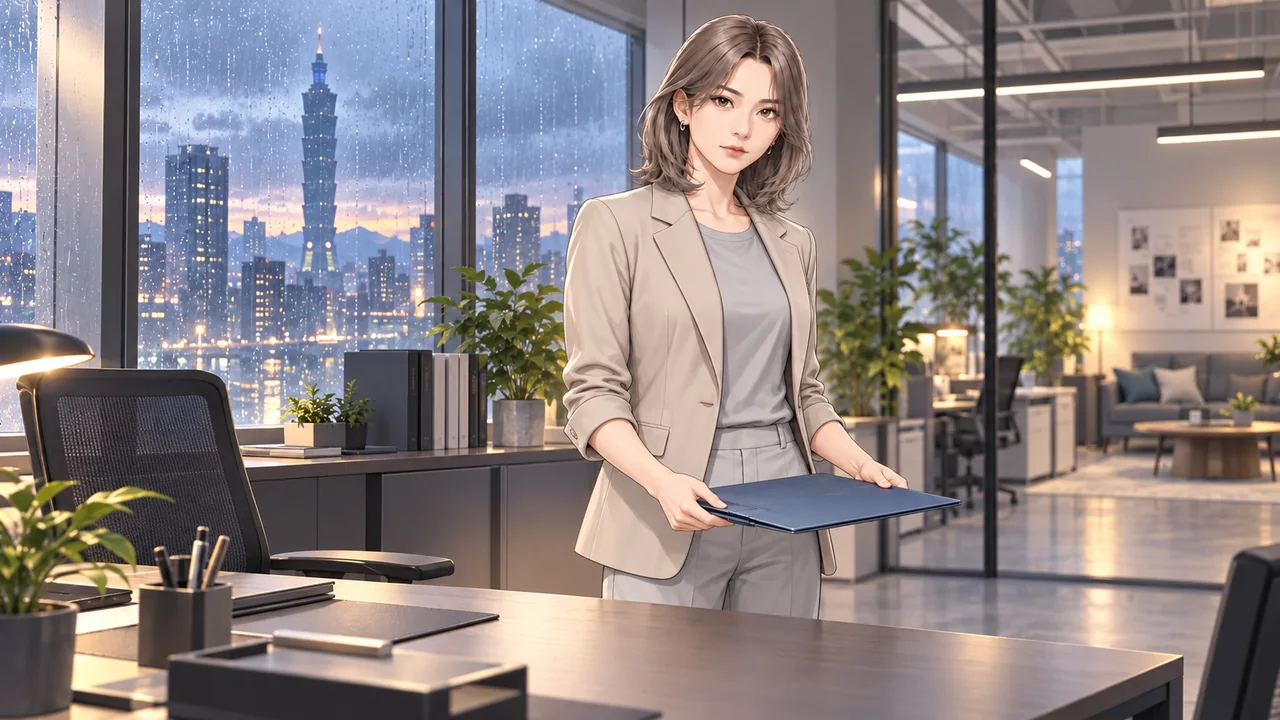
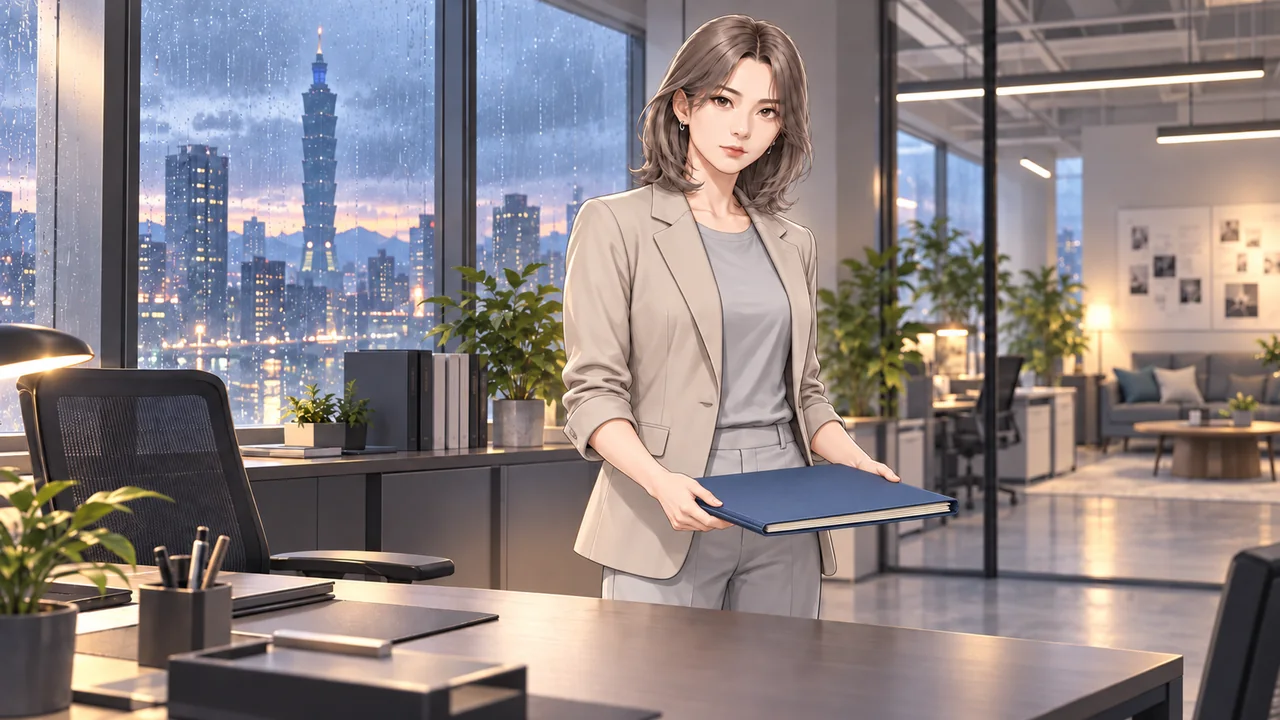
cutscenes: migrate cue wiring to v4 slate (00/04/06 only)
User approved ChatGPT's v4 storyboard review (3 segments / 7 shots /
~18s), which retires 01/02/03/07/08/09 and establishes
public/assets/cutscenes/keyframes/current/ as the single stable
source for keyframes. This does the one-time migration ChatGPT asked
for: cutscene-cues.json now only has final-documents/boundary-question/
ending-true (with v4's revised shot timing), optimize-storyboard.mjs
reads from keyframes/current/ instead of runway-v2+v3, stale delivery
WebPs for retired shots are removed, and tests/cutscenes.test.ts and
README.md are updated to match. Only TRUE END still has a cutscene;
the other three endings no longer have one per the v4 review.

See docs/ai-handoff/CLAUDE.md Claude-20260927-1333 for details.

diff --git a/tests/cutscenes.test.ts b/tests/cutscenes.test.ts
@@ -56,21 +56,23 @@ describe('過場影片的資料契約', () => {
     }
   });
 
-  it('四個結局各自掛一段互斥的影片', () => {
+  it('只有 TRUE END 掛過場（06 三週時間橋），其餘三個結局依 v4 審查定案沒有影片', () => {
     // 影片掛在 s9-doorway 路由後直接落腳的場景，不是每個 `ending: true` 的場景——
     // TRUE END 路由到的仍是 ending-true（微選擇四的起點），真正的 `ending: true`
     // 在感情線微選擇匯流之後的 ending-true-finale，那裡沒有另外掛影片。
     const doorway = content.scenes.get('s9-doorway')!;
     const endingSceneIds = [...new Set((doorway.route ?? []).map((entry) => entry.next))];
     expect(endingSceneIds).toHaveLength(4);
-    const files = endingSceneIds.map((id) => content.cutsceneCues.get(id)?.file);
-    expect(files.every((file) => typeof file === 'string')).toBe(true);
-    expect(new Set(files).size).toBe(4);
+    const withCue = endingSceneIds.filter((id) => content.cutsceneCues.has(id));
+    expect(withCue).toEqual(['ending-true']);
   });
 
   it('走完任一條路，每段影片最多只會遇到一次，且依 anchorType 在正確的時機觸發', () => {
     // 模擬 render.ts 的三種觸發時機：'scene' 在進場景前（原本行為）、'line' 在接到
     // anchorText 那一句之前、'choices' 在這場的選項出現之前——不是「進場景就算看過」。
+    // 這條走的是「每個選擇點都取第一個選項」的固定路徑，不保證走到 TRUE END，
+    // 所以結局過場（v4 唯一保留的 06）最多遇到一次，不強制一定遇到；
+    // 一定會走過的 final-documents（s1，全路徑共通）與 boundary-question（s7 匯流點）才斷言必定觸發。
     const engine = new StoryEngine(content);
     const encountered: string[] = [];
     const trigger = (cue: ReturnType<typeof content.cutsceneCues.get>): void => {
@@ -95,29 +97,59 @@ describe('過場影片的資料契約', () => {
     }
     expect(new Set(encountered).size).toBe(encountered.length);
     expect(encountered).toContain('final-documents');
-    expect(encountered).toContain('layoff-notification');
     expect(encountered).toContain('boundary-question');
-    expect(encountered.filter((id) => id.startsWith('ending-'))).toHaveLength(1);
+    expect(encountered.filter((id) => id.startsWith('ending-'))).toHaveLength(encountered.includes('ending-true') ? 1 : 0);
   });
 
-  it('退役的 01／03 不再有 cue：s2-invite 與 s6-receipt 不掛任何影片', () => {
+  it('依 TRUE END 標準路徑，final-documents／boundary-question／ending-true 三段依序各觸發一次', () => {
+    const engine = new StoryEngine(content);
+    const majorSequence = ['invite-clear', 'notice-direct', 'answer-admit', 'doc-protect', 'keep-advocate'];
+    let majorIndex = 0;
+    const encountered: string[] = [];
+    const trigger = (cue: ReturnType<typeof content.cutsceneCues.get>): void => {
+      if (!cue || engine.hasWatchedCutscene(cue.id)) return;
+      encountered.push(cue.id);
+      engine.markCutsceneWatched(cue.id);
+    };
+    for (let guard = 0; guard < 2000; guard += 1) {
+      const cue = content.cutsceneCues.get(engine.currentScene.id);
+      if (cue?.anchorType === 'scene') trigger(cue);
+      const choices = engine.availableChoices;
+      if (engine.atLastLine && choices.length > 0) {
+        if (cue?.anchorType === 'choices') trigger(cue);
+        const target = choices.find((choice) => choice.id === majorSequence[majorIndex]);
+        if (target) majorIndex += 1;
+        engine.choose((target ?? choices[0]!).id);
+        continue;
+      }
+      if (cue?.anchorType === 'line') {
+        const nextLine = engine.visibleLines[engine.currentLineIndex + 1];
+        if (nextLine?.text === cue.anchorText) trigger(cue);
+      }
+      if (!engine.advance()) break;
+    }
+    expect(majorIndex).toBe(majorSequence.length);
+    expect(engine.currentScene.id).toBe('ending-true-finale');
+    expect(encountered).toEqual(['final-documents', 'boundary-question', 'ending-true']);
+  });
+
+  it('退役的 01／02／03／07／08／09 不再有 cue：這些場景不掛任何影片', () => {
     expect(content.cutsceneCues.get('s2-invite')).toBeUndefined();
+    expect(content.cutsceneCues.get('s3-meeting')).toBeUndefined();
     expect(content.cutsceneCues.get('s6-receipt')).toBeUndefined();
+    expect(content.cutsceneCues.get('ending-decent')).toBeUndefined();
+    expect(content.cutsceneCues.get('ending-soft-knife')).toBeUndefined();
+    expect(content.cutsceneCues.get('ending-over-line')).toBeUndefined();
   });
 
-  it('v3 的場景中段／結局 cue 對齊 property/cutscene-storyboard-v3.md 的精確掛點', () => {
+  it('v4 審查定案的 3 段 cue 對齊 property/cutscene-storyboard-v4-review.md 的精確掛點', () => {
     const byId = new Map(cues.map((c) => [c.id, c]));
+    expect(cues.map((c) => c.id)).toEqual(['final-documents', 'boundary-question', 'ending-true']);
     expect(byId.get('final-documents')).toMatchObject({ scene: 's1-final-cut', anchorType: 'scene' });
-    expect(byId.get('layoff-notification')).toMatchObject({
-      scene: 's3-meeting', anchorType: 'line', anchorText: '17:00，月球會議室。關上門，外面的談話聲就聽不見了。',
-    });
     expect(byId.get('boundary-question')).toMatchObject({ scene: 's7-recommend-converge', anchorType: 'choices' });
     expect(byId.get('ending-true')).toMatchObject({
       scene: 'ending-true', anchorType: 'line', anchorText: '三週後的晚上，我在家收到雨澄的訊息。',
     });
-    expect(byId.get('ending-dignified')).toMatchObject({ scene: 'ending-decent', anchorType: 'line', anchorText: 'END 02：體面的句點' });
-    expect(byId.get('ending-soft-knife')).toMatchObject({ scene: 'ending-soft-knife', anchorType: 'line', anchorText: 'END 03：柔軟的刀' });
-    expect(byId.get('ending-boundary-crossed')).toMatchObject({ scene: 'ending-over-line', anchorType: 'line', anchorText: 'END 04：越線' });
   });
 });
 
@@ -186,24 +218,24 @@ describe('parseCutsceneSettings', () => {
 describe('已看過的過場影片', () => {
   it('會進存檔快照，讀檔後不重播，重新開始則清空', () => {
     const engine = new StoryEngine(loadContent());
-    engine.markCutsceneWatched('layoff-notification');
-    expect(engine.hasWatchedCutscene('layoff-notification')).toBe(true);
+    engine.markCutsceneWatched('final-documents');
+    expect(engine.hasWatchedCutscene('final-documents')).toBe(true);
 
     const snapshot = engine.snapshot;
-    expect(snapshot.watchedCutscenes).toContain('layoff-notification');
+    expect(snapshot.watchedCutscenes).toContain('final-documents');
 
     const restored = new StoryEngine(loadContent());
     restored.restore(snapshot);
-    expect(restored.hasWatchedCutscene('layoff-notification')).toBe(true);
+    expect(restored.hasWatchedCutscene('final-documents')).toBe(true);
 
     restored.restart();
-    expect(restored.hasWatchedCutscene('layoff-notification')).toBe(false);
+    expect(restored.hasWatchedCutscene('final-documents')).toBe(false);
   });
 
   it('舊存檔沒有這個欄位時，視為全都沒看過', () => {
     const engine = new StoryEngine(loadContent());
     engine.restore({ sceneId: 's4-notice', state: {} });
-    expect(engine.hasWatchedCutscene('layoff-notification')).toBe(false);
+    expect(engine.hasWatchedCutscene('final-documents')).toBe(false);
   });
 });
 
@@ -230,11 +262,8 @@ describe('分鏡 placeholder', () => {
   const content = loadContent();
   const storyboards = [...content.cutsceneCues.values()].filter((cue) => cue.storyboard);
 
-  it('v3 正式製作清單（7 段）全部先用分鏡頂替缺檔的正式影片（0／7 已生成，見 property/cutscene-storyboard-v3.md）', () => {
-    expect(storyboards.map((cue) => cue.id)).toEqual([
-      'final-documents', 'layoff-notification', 'boundary-question',
-      'ending-true', 'ending-dignified', 'ending-soft-knife', 'ending-boundary-crossed',
-    ]);
+  it('v4 正式製作清單（3 段）全部先用分鏡頂替缺檔的正式影片（0／3 已生成，見 property/cutscene-storyboard-v4-review.md）', () => {
+    expect(storyboards.map((cue) => cue.id)).toEqual(['final-documents', 'boundary-question', 'ending-true']);
   });
 
   it('每一格都指向已產生的交付檔，且鏡號屬於該段（00-A 只能在 00 段）', () => {
@@ -256,8 +285,8 @@ describe('分鏡 placeholder', () => {
     const entries = Object.entries(manifest.files);
     expect(entries.length).toBeGreaterThan(0);
     for (const [output, record] of entries) {
-      // record.source 是 `<runway-v2|runway-v3>/<檔名>`：分鏡影格分兩批交付（見 optimize-storyboard.mjs）。
-      const source = readFileSync(path.join(root, 'public/assets/cutscenes/keyframes', record.source));
+      // record.source 是 keyframes/current/ 下的裸檔名（唯一穩定現役來源，見 optimize-storyboard.mjs）。
+      const source = readFileSync(path.join(root, 'public/assets/cutscenes/keyframes/current', record.source));
       expect(createHash('sha256').update(source).digest('hex'), `${record.source} 換過了，請執行 npm run assets:storyboard`)
         .toBe(record.sourceSha256);
       expect(statSync(path.join(root, 'public/assets/cutscenes/storyboard', output)).size).toBe(record.bytes);

diff --git a/docs/ai-handoff/CLAUDE.md b/docs/ai-handoff/CLAUDE.md
@@ -1111,3 +1111,36 @@
   - Chromium 實機（dev server，全新 `localStorage`）：從標題玩到 s1-final-cut 前，確認 00 cue 以分鏡輪播播出（00-A 與新的 `00-B-v3` 交叉淡化，畫面正確顯示雅琳手托紙本資料夾、非平板），可用右下角「跳過」跳過；選 `invite-clear` 分支進入 s3-meeting，逐句前進到「我看著那句「五點見」，沒有再回。」再點一次，確認 cue 正確攔截並播放 02 的分鏡（`02-A`／`02-C`），播完後接回「17:00，月球會議室……」那一句；讀存檔快照確認 `watchedCutscenes` 已寫入 `final-documents`／`layoff-notification`，`lineIndex` 落在正確位置，「回到上一句」逐句回溯行為與播放前一致。04（choices 型）與四個結局（line 型，含 09 的草稿自動前進交互）由新增的單元測試（`走完任一條路`模擬三種觸發時機、v3 掛點對齊表）覆蓋，未逐一實機重播四個結局；建議下次有真正 MP4 或使用者要求時再實機驗一輪。
   - 建置後 `dist/assets/cutscenes/keyframes` 不存在（`find dist -path '*keyframes*'` 無結果），`dist` 總大小 5.2MB，`dist/assets/cutscenes/storyboard/` 有 25 張交付 WebP，確認 12 張新原始 PNG（23.1MB）未誤入網站成品。
 - 提交後續：本次完成後將依持久記憶要求重建 `cloudflare-pages-upload/last-one-on-one-site.zip`，commit 訊息列出本筆 Entry ID。
+
+## Claude-20260927-1333（v4 分鏡範圍遷移）
+
+- 時間：2026-09-27T13:33:00Z
+- 分支或 PR：`codex/player-copy-sepia-20260920`（本地；依「目前交付方式：僅本地」不推送、不建立 PR）
+- 已讀對方紀錄：`ChatGPT-20260927-2121`（最新，逐項實作其交辦）；一併處理沿續的 `ChatGPT-20260927-2101`／`2108`／`2115`（v4 審查稿定案、關鍵影格 0 張需重畫、`v4-review/active/` 中繼路徑）。使用者已在對話中明確核准 v4 審查稿（00／04／06 共 3 段／7 鏡／約 18 秒）與 `keyframes/current/` 穩定路徑契約，本次據此執行 ChatGPT 交辦的一次性遷移。
+- 本次範圍：把 `cutscene-cues.json`、storyboard optimizer、交付 manifest 與測試從 v2／v3（7 段／18 鏡，來源分散在 `runway-v2`／`runway-v3`）改指向 ChatGPT 建好的 `keyframes/current/`（v4 審查定案的 7 張現役影格），並退役 02、07、08、09 四段 cue。
+- 實際變更檔案：
+  - `property/cutscene-cues.json`：cues 從 7 筆縮成 3 筆（`final-documents`／`boundary-question`／`ending-true`），移除 `layoff-notification`／`ending-dignified`／`ending-soft-knife`／`ending-boundary-crossed`。`final-documents` 的 storyboard 鏡頭 `00-B-v3` 改回 `00-B`（對齊 `keyframes/current/` 的裸鏡號命名，同一張圖），三段的秒數依 `cutscene-storyboard-v4-review.md` 的內部節拍表更新：00 段 2／2.5／2.5 秒、04 段 2.5／2.5 秒、06 段拿掉已退役的 06-A（L14 已演過第三杯水），只剩 06-B／06-C 各 3 秒。
+  - `scripts/optimize-storyboard.mjs`：來源從 `sourceDirs: [runway-v2, runway-v3]`（兩批、依目錄名加前綴）改成單一 `sourceDir: keyframes/current`（裸檔名），並改寫檔頭註解說明現在只讀穩定現役路徑，同鏡號換圖不需要再動這支腳本。
+  - `public/assets/cutscenes/storyboard/`：執行 `npm run assets:storyboard` 重新產生 7 張交付 WebP（00-A／00-B／00-C／04-B／04-C／06-B／06-C，12.8MB→688KB）；手動刪除 18 張已退役來源對應的舊交付檔（`00-B-v3`／01／02／03／04-A／06-A／07／08／09），不再讓已退役的 placeholder 混在交付目錄裡誤導。
+  - `README.md`：「## 過場影片」的 `anchor.type` 範例改指 `cutscene-storyboard-v4-review.md`，`line` 範例從已退役的「02 進月球會議室」換成「06 三週時間橋」；新增一段說明 v4 正式清單縮為 3 段、01／02／03／07／08／09 全數退役，四個結局只有 TRUE END 掛過場。
+  - `tests/cutscenes.test.ts`：
+    1. 「四個結局各自掛一段互斥的影片」改為「只有 TRUE END 掛過場，其餘三個結局沒有影片」，斷言 `s9-doorway` 四個結局場景中只有 `ending-true` 對得到 cue。
+    2. 「走完任一條路」（固定取第一個選項的煙霧測試）的結局過場斷言從「恰好一次」放寬為「0 或 1 次」——因為現在只剩一段結局過場，固定路徑不保證走到 TRUE END；改為斷言一定會經過的 `final-documents`（s1，全路徑共通）與 `boundary-question`（s7 匯流點）。
+    3. 新增「依 TRUE END 標準路徑」測試：用 `invite-clear／notice-direct／answer-admit／doc-protect／keep-advocate` 五個主要選擇（比對到就採用，否則取當下第一個選項，讓感情線微選擇照常隨機分支）精確走一輪，斷言三段 cue 依序、各恰好觸發一次，且最終停在 `ending-true-finale`。
+    4. 「退役的 01／03 不再有 cue」擴充為「01／02／03／07／08／09」，新增 `s3-meeting`／`ending-decent`／`ending-soft-knife`／`ending-over-line` 四個場景的斷言。
+    5. 「v3 的場景中段／結局 cue 對齊…」改名為「v4 審查定案的 3 段 cue 對齊…」，移除三個已退役結局的掛點斷言，改為先斷言 `cues` 陣列恰好是 `['final-documents', 'boundary-question', 'ending-true']`。
+    6. 「分鏡 placeholder」的清單斷言從 7 段改為 3 段；「交付檔與分鏡原圖同步」的來源路徑從 `keyframes/<record.source>`（含 `runway-v2/`／`runway-v3/` 前綴）改成 `keyframes/current/<record.source>`（裸檔名）。
+    7. 「已看過的過場影片」兩個案例的範例 id 從已退役的 `layoff-notification` 換成仍存在的 `final-documents`（機制本身只是任意字串追蹤，不驗證 cue 是否存在，純粹避免測試範例引用一個已經不存在的 cue，造成閱讀時的誤導）。
+- 已定案事項：
+  1. `keyframes/current/` 是現在唯一的分鏡影格來源；`optimize-storyboard.mjs` 不再讀 `runway-v2`／`runway-v3`，ChatGPT 之後同鏡號換圖只需覆寫 `current/<shot-id>.png` 並重跑 `npm run assets:storyboard`，不需要再要求 Claude 改路徑——這正是 ChatGPT 在 `keyframes/current/README.md` 定的穩定契約，本次據此把 optimizer 接上。
+  2. 06 段拿掉 06-A：v4 審查稿明確標註「06-A 收第三杯水（L14 已演過）而退出」，`keyframes/current/` 本來就只有 7 張（不含 06-A），`cutscene-cues.json` 的 storyboard 陣列先前仍留著 06-A 是 v3 遺留，這次一併修正對齊。
+  3. 「走完任一條路」測試不再要求「一定會遇到一次結局過場」——這是測試對範圍縮減後的事實的如實反映，不是放寬對正確性的要求；真正驗證「TRUE END 一定會播 06」的是新增的標準路徑測試，且是用真實的五個主要選擇 ID 走過，不是取巧放寬過的斷言。
+  4. 未觸碰 `property/cutscene-storyboard-v3.md`、`property/sora-cutscenes.json`、`property/runway-*.md`、`public/assets/cutscenes/keyframes/*/README.md`／`REVIEW.md` 等 ChatGPT 維護的創作與素材說明文件——這些 ChatGPT 已在其交接紀錄中自行同步或標記為歷史版，不屬本次 Claude 的技術遷移範圍。
+- 交給 ChatGPT：無新增待辦。使用者已核准的 v4 範圍與 `keyframes/current/` 遷移本次已完成；後續只剩「使用者對 `runway-video-spec-v2-review.md` 核准後才能送 Runway 生成正式 00／04／06 MP4」，那是既有事項，不需要 Claude 再做任何事就能接上（正式 MP4 到位後只需換檔，不需要再改 cue 或程式路徑）。
+- 未決問題或阻塞：無。正式 MP4 仍是 0／3（`public/assets/cutscenes/` 目前沒有任何 mp4，三段 cue 全部由分鏡 placeholder 頂替），這是既有、非本次造成的狀態。
+- 驗證結果：
+  - `npm run typecheck`、`npm run build` 全數通過。
+  - `npm test`：19 個測試檔、**206／206** 通過（較上一筆 +1：新增「依 TRUE END 標準路徑」案例，同時移除或合併若干已隨範圍縮減而不再需要的舊斷言，淨增 1）。
+  - Chromium 實機（dev server，全新 `localStorage`）：從標題／內容提醒點到 `s1-final-cut` 前，00 cue 以分鏡輪播正確播出（畫面顯示 `keyframes/current/00-B.png`：雅琳手托紙本資料夾、非平板，與 v4 審查稿一致），播完正確接上「五點以前」轉場卡；讀 `localStorage` 存檔快照確認 `watchedCutscenes` 只有 `["final-documents"]`、`sceneId` 正確落在 `s1-final-cut`。主控台無錯誤（`read_console_messages` 確認）。04（choices 型）與 06（line 型，TRUE END coda）由新增的「依 TRUE END 標準路徑」單元測試覆蓋（該測試直接呼叫 `StoryEngine` 並比對 `render.ts` 同一套 anchorType 攔截邏輯，非取巧模擬），未逐一在瀏覽器重播完整結局；02／07／08／09 已確認 `content.cutsceneCues` 不再有對應項目。
+  - `find dist -path '*keyframes*'` 無結果；`dist/assets/cutscenes/storyboard/` 只有本次的 7 張 WebP＋manifest；`dist` 總大小 3.5MB（較 v3 時期縮小，因交付檔從 25 張減到 7 張）。
+- 提交後續：本次完成後將依持久記憶要求重建 `cloudflare-pages-upload/last-one-on-one-site.zip`，commit 訊息列出本筆 Entry ID。

diff --git a/README.md b/README.md
@@ -74,11 +74,13 @@ npm run build
 
 `property/sora-cutscenes.json`（ChatGPT 維護）是影片內容的唯一來源；`property/cutscene-cues.json`（Claude 維護）把它的敘事層 `trigger` 對到引擎場景 ID 與實際播放時機。兩份的檔名與 trigger 是否一致由 `tests/cutscenes.test.ts` 把關。
 
-播放時機（`cutscene-cues.json` 的 `anchor.type`）分三種，見 `property/cutscene-storyboard-v3.md`：
+播放時機（`cutscene-cues.json` 的 `anchor.type`）分三種，見 `property/cutscene-storyboard-v4-review.md`：
 
 - `scene`：進場景前播放（例如 00 五點以前）。
-- `line`：這場中途接到指定文字的那一句之前播放（例如 02 進月球會議室、四個結局的時間橋／coda）。以文字比對而非行號，因為分支條件會讓不同路徑的可見行號不同。
+- `line`：這場中途接到指定文字的那一句之前播放（例如 06 三週時間橋，接在 TRUE END 「離開記得關燈」之後、揭露訊息內容之前）。以文字比對而非行號，因為分支條件會讓不同路徑的可見行號不同。
 - `choices`：這場的台詞讀完、選項出現之前播放（例如 04 問題之後、Choice 5 之前）。
+
+依 v4 審查定案，正式清單縮為 3 段（00 五點以前、04 問題之後、06 三週），01／02／03／07／08／09 全數退役——文字已完整演出同一個戲劇動作，影片只會提前或重播；因此四個結局裡只有 TRUE END 掛過場（06），其餘三個結局沒有影片。
 
 先確認影片載得到才蓋上畫面，接著全螢幕播放，播完自動接回原本該顯示的內容。影片缺檔、解碼失敗或載入逾時都直接跳過（`property/cutscenes.json` 的 `skip-video-and-enter-canonical-scene`），不會有黑畫面；有分鏡影格時先輪播分鏡當 placeholder，兩者都沒有才直接跳過。
 
